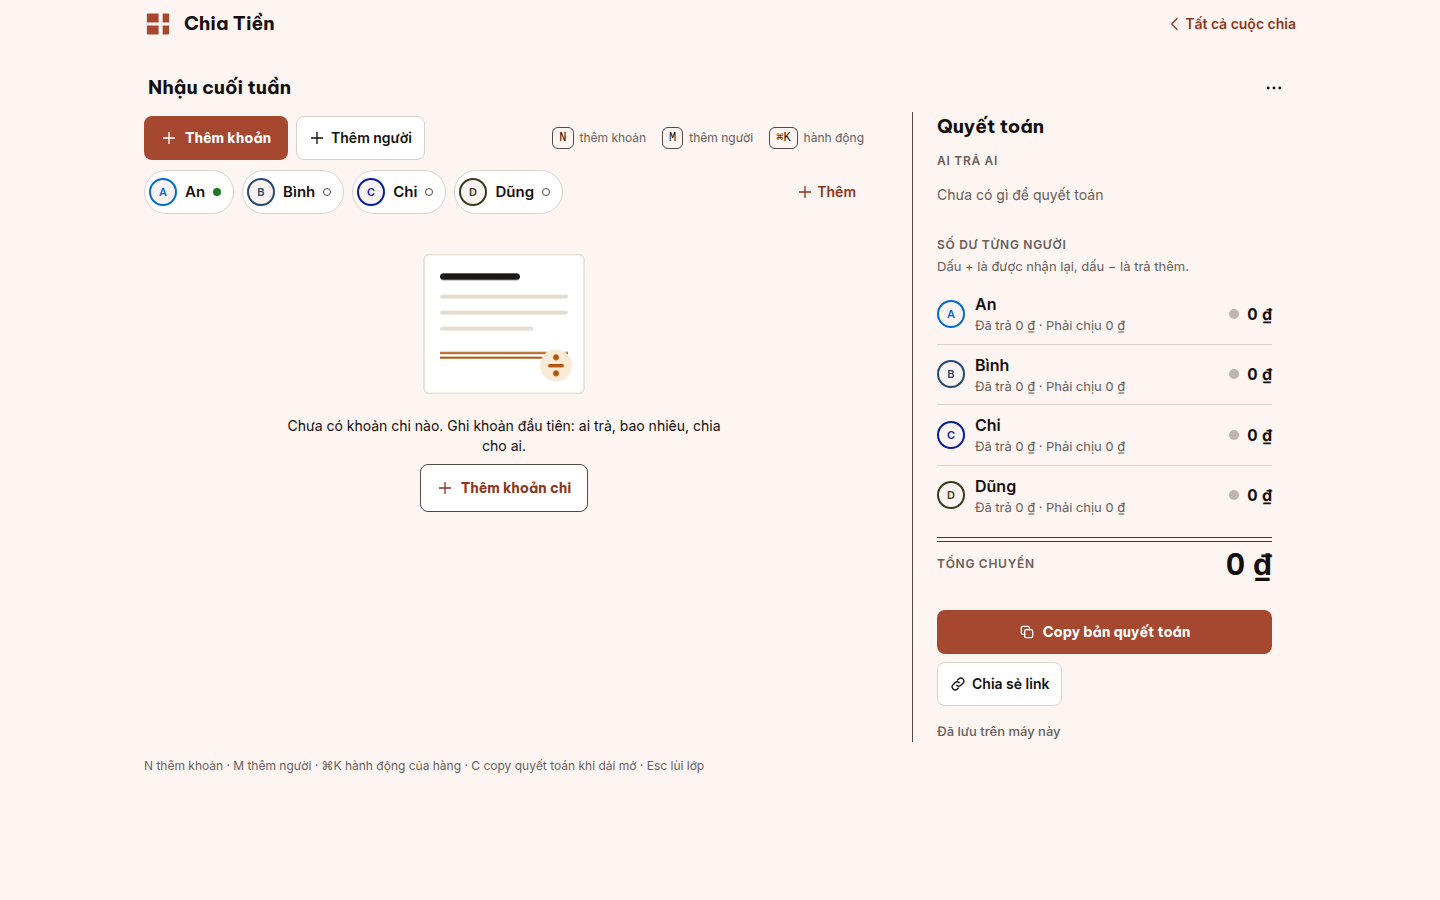
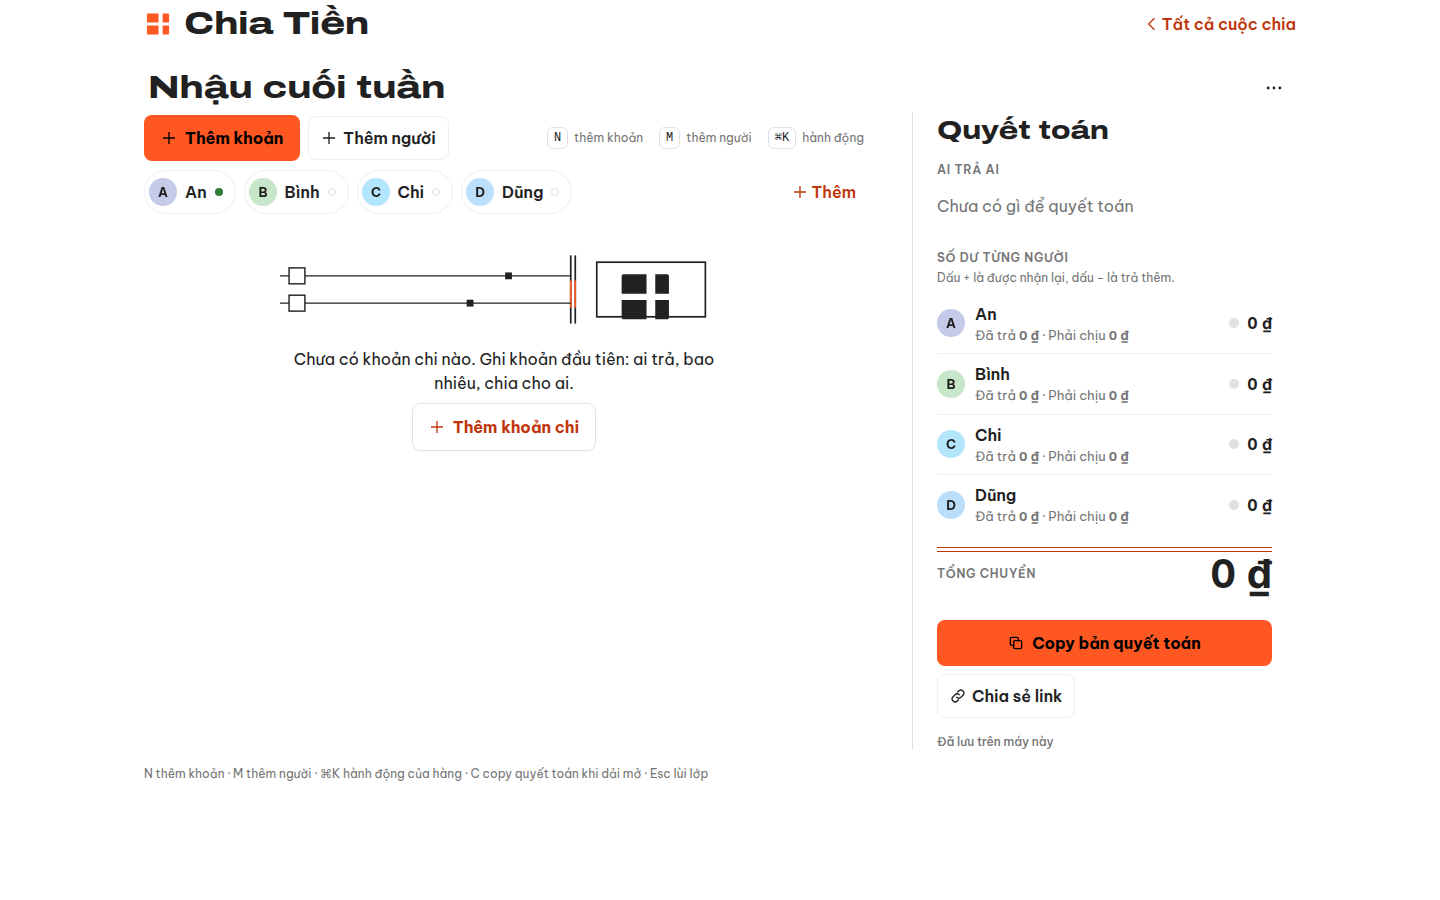
docs: re-shoot screenshot pack on live v1.7.0 (REDESIGN-V4) — same dataset, R2 sha256 3/3

diff --git a/docs/screenshots/SHOT-LIST.md b/docs/screenshots/SHOT-LIST.md
@@ -1,9 +1,12 @@
 # SHOT-LIST — screenshot pack chiatien (studio-catalog/chiatien/)
 
-> **Trạng thái (2026-10-24): ĐÃ CHỤP LẠI trên bản live v1.6.0 (REDESIGN-V3,**
-> **Deep Orange #A5482F).** Pack trước chụp ở v1.4.0 (cc07c0f); bản V3 đổi
-> toàn bộ nhận diện (màu/mark/avatar/bố cục «Sổ kép») nên pack cũ lệch hẳn.
-> Xem SHOT-WAVE-V3-STATE.md ở repo root để biết sha256 mới + kết quả R2.
+> **Trạng thái (2026-10-24): ĐÃ CHỤP LẠI trên bản live v1.7.0 (REDESIGN-V4,
+> Neutral-First, seed Material Deep Orange 500 #FF5722, canvas trắng
+> trung tính).** Pack trước chụp ở v1.6.0 (REDESIGN-V3, #A5482F).
+> Xem SHOT-V4-STATE.md ở repo root để biết sha256 mới + kết quả R2.
+> Lưu ý V4: ảnh mobile 390px ghi lại trung thực hiện tượng wordmark
+> header quấn 2 dòng, dòng đầu cắt ở mép trên (phát hiện M-HDR-1 trong
+> SHOT-V4-STATE.md — lỗi phía app, không phải lỗi chụp).
 > File này ghi lại hợp đồng chụp (tên file giữ nguyên như pack cũ để catalog
 > không gãy) và các TRẠNG THÁI nội dung phải đúng sự thật khi chụp — đặc
 > biệt: pack v1 (HEAD 044b960) từng bị grader bắt lỗi DOC-03/DATA-03 vì
